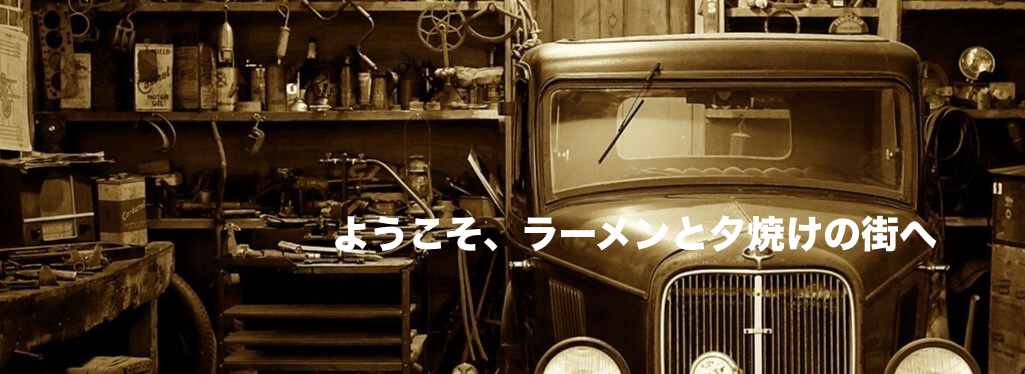
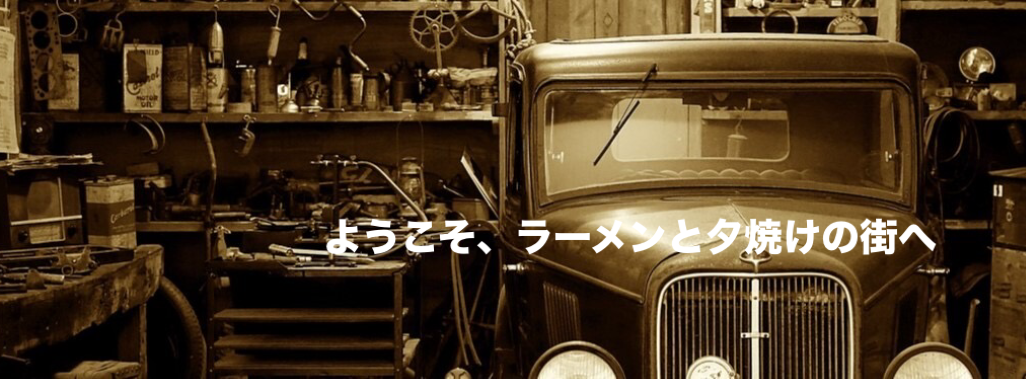
6月29日

diff --git a/style.css b/style.css
@@ -18,8 +18,8 @@ html,body {
     width: 100%;
     color: #FFFFFF;
     position: fixed;
-    z-index: 1;
-    background-color: transparent;
+    z-index: 100;
+    text-shadow: 1px 2px 3px #808080;
 }
 .header.resize {
     width: 100%;
@@ -345,12 +345,10 @@ html,body {
     width: 90%;
 }
 
-
-
-
 .all_more {
     text-align: center;
 }
+
 /*main*/
 .page.open {
     background-color: #000;
@@ -375,7 +373,7 @@ html,body {
     display: flex;
 }
 .slide img {
-    width: 100vw;
+    width: 100%;
     height: 100%;
 }
 .pc { display: block !important; }
@@ -639,12 +637,15 @@ html,body {
     display: flex;
 }
 .slide-news li {
-    margin:0 10px;
+    margin: 10px;
     text-decoration: none;
 }
 .side-news img {
     width: 100%;
     height: 100%;
+}
+.slider .slick-slide {
+    margin: 0 30px;
 }
 .slide-news span {
     margin-top: 10px;
@@ -686,6 +687,12 @@ html,body {
     color: #333333;
     font-size: 14px;
 }
+.btn_more:hover {
+    background: #999;
+    border: 1px solid #999;
+    color: #fff;
+}
+
 .ramen_infomation {
     background-color: #000000;
 }
@@ -753,7 +760,12 @@ html,body {
 .lineup_box {
     width: 28%;
     margin: 23px;
-    border: 2px solid #666666;
+    box-shadow: 0 0 5px 1px rgba(0, 0, 0, 0.1);
+
+}
+.lineup_box:hover {
+    background: #fafafa;
+    box-shadow: 0 0 5px 1px rgba(0, 0, 0, 0.25)
 }
 .shop_title {
     margin-bottom: 14px;

diff --git a/script.js b/script.js
@@ -43,11 +43,12 @@ function getNow() {
   return s;
 }
 
-$('.slide-img').slick({
+$('.slide').slick({
   autoplay: true,
-  autoplaySpeed: 5000,
-  speed: 5000,
+  autoplaySpeed:  4000,
+  speed: 1,
   slidesToShow: 1,
+  arrows: false,
 });
 
 
